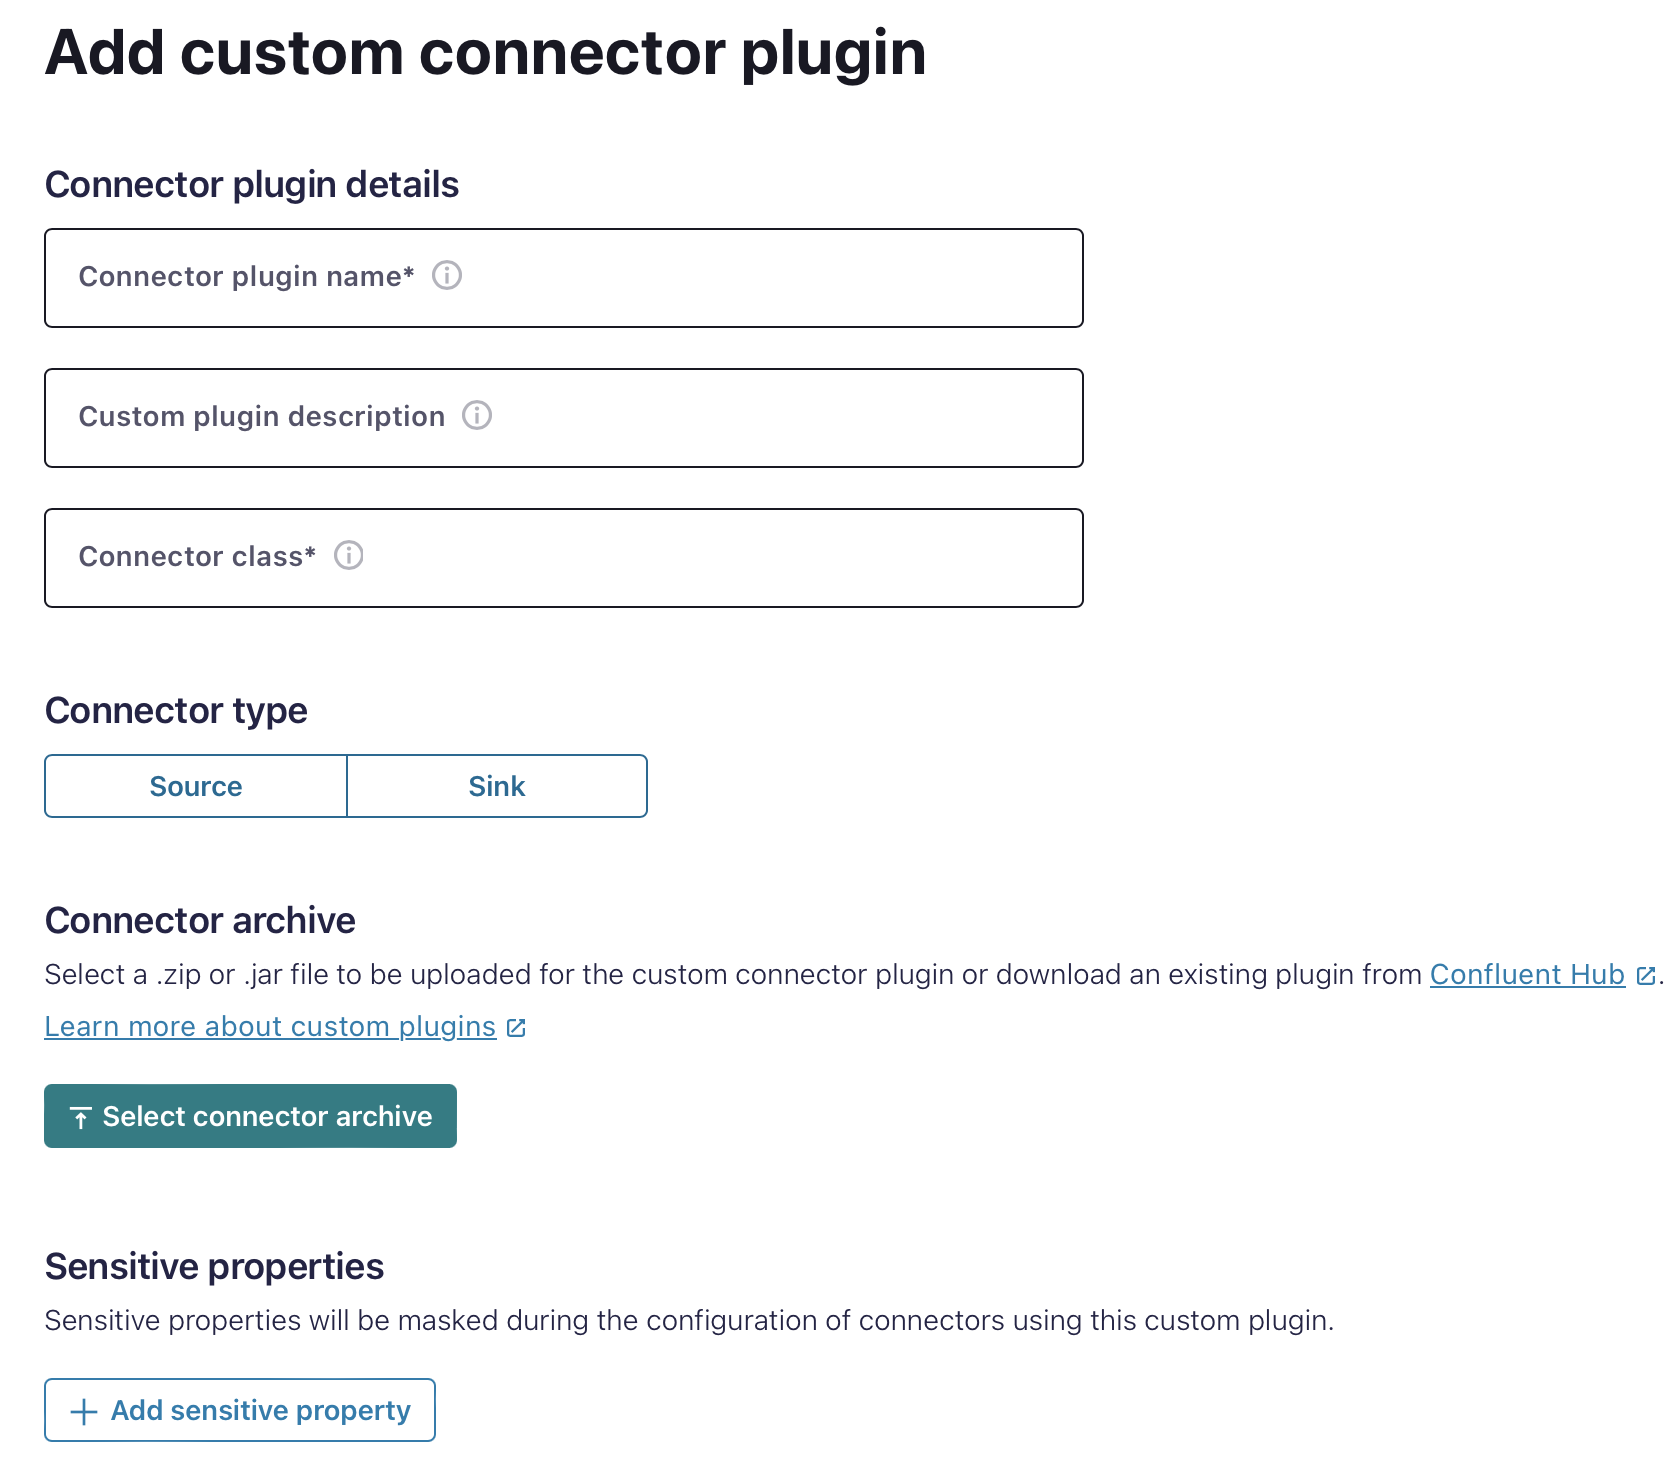
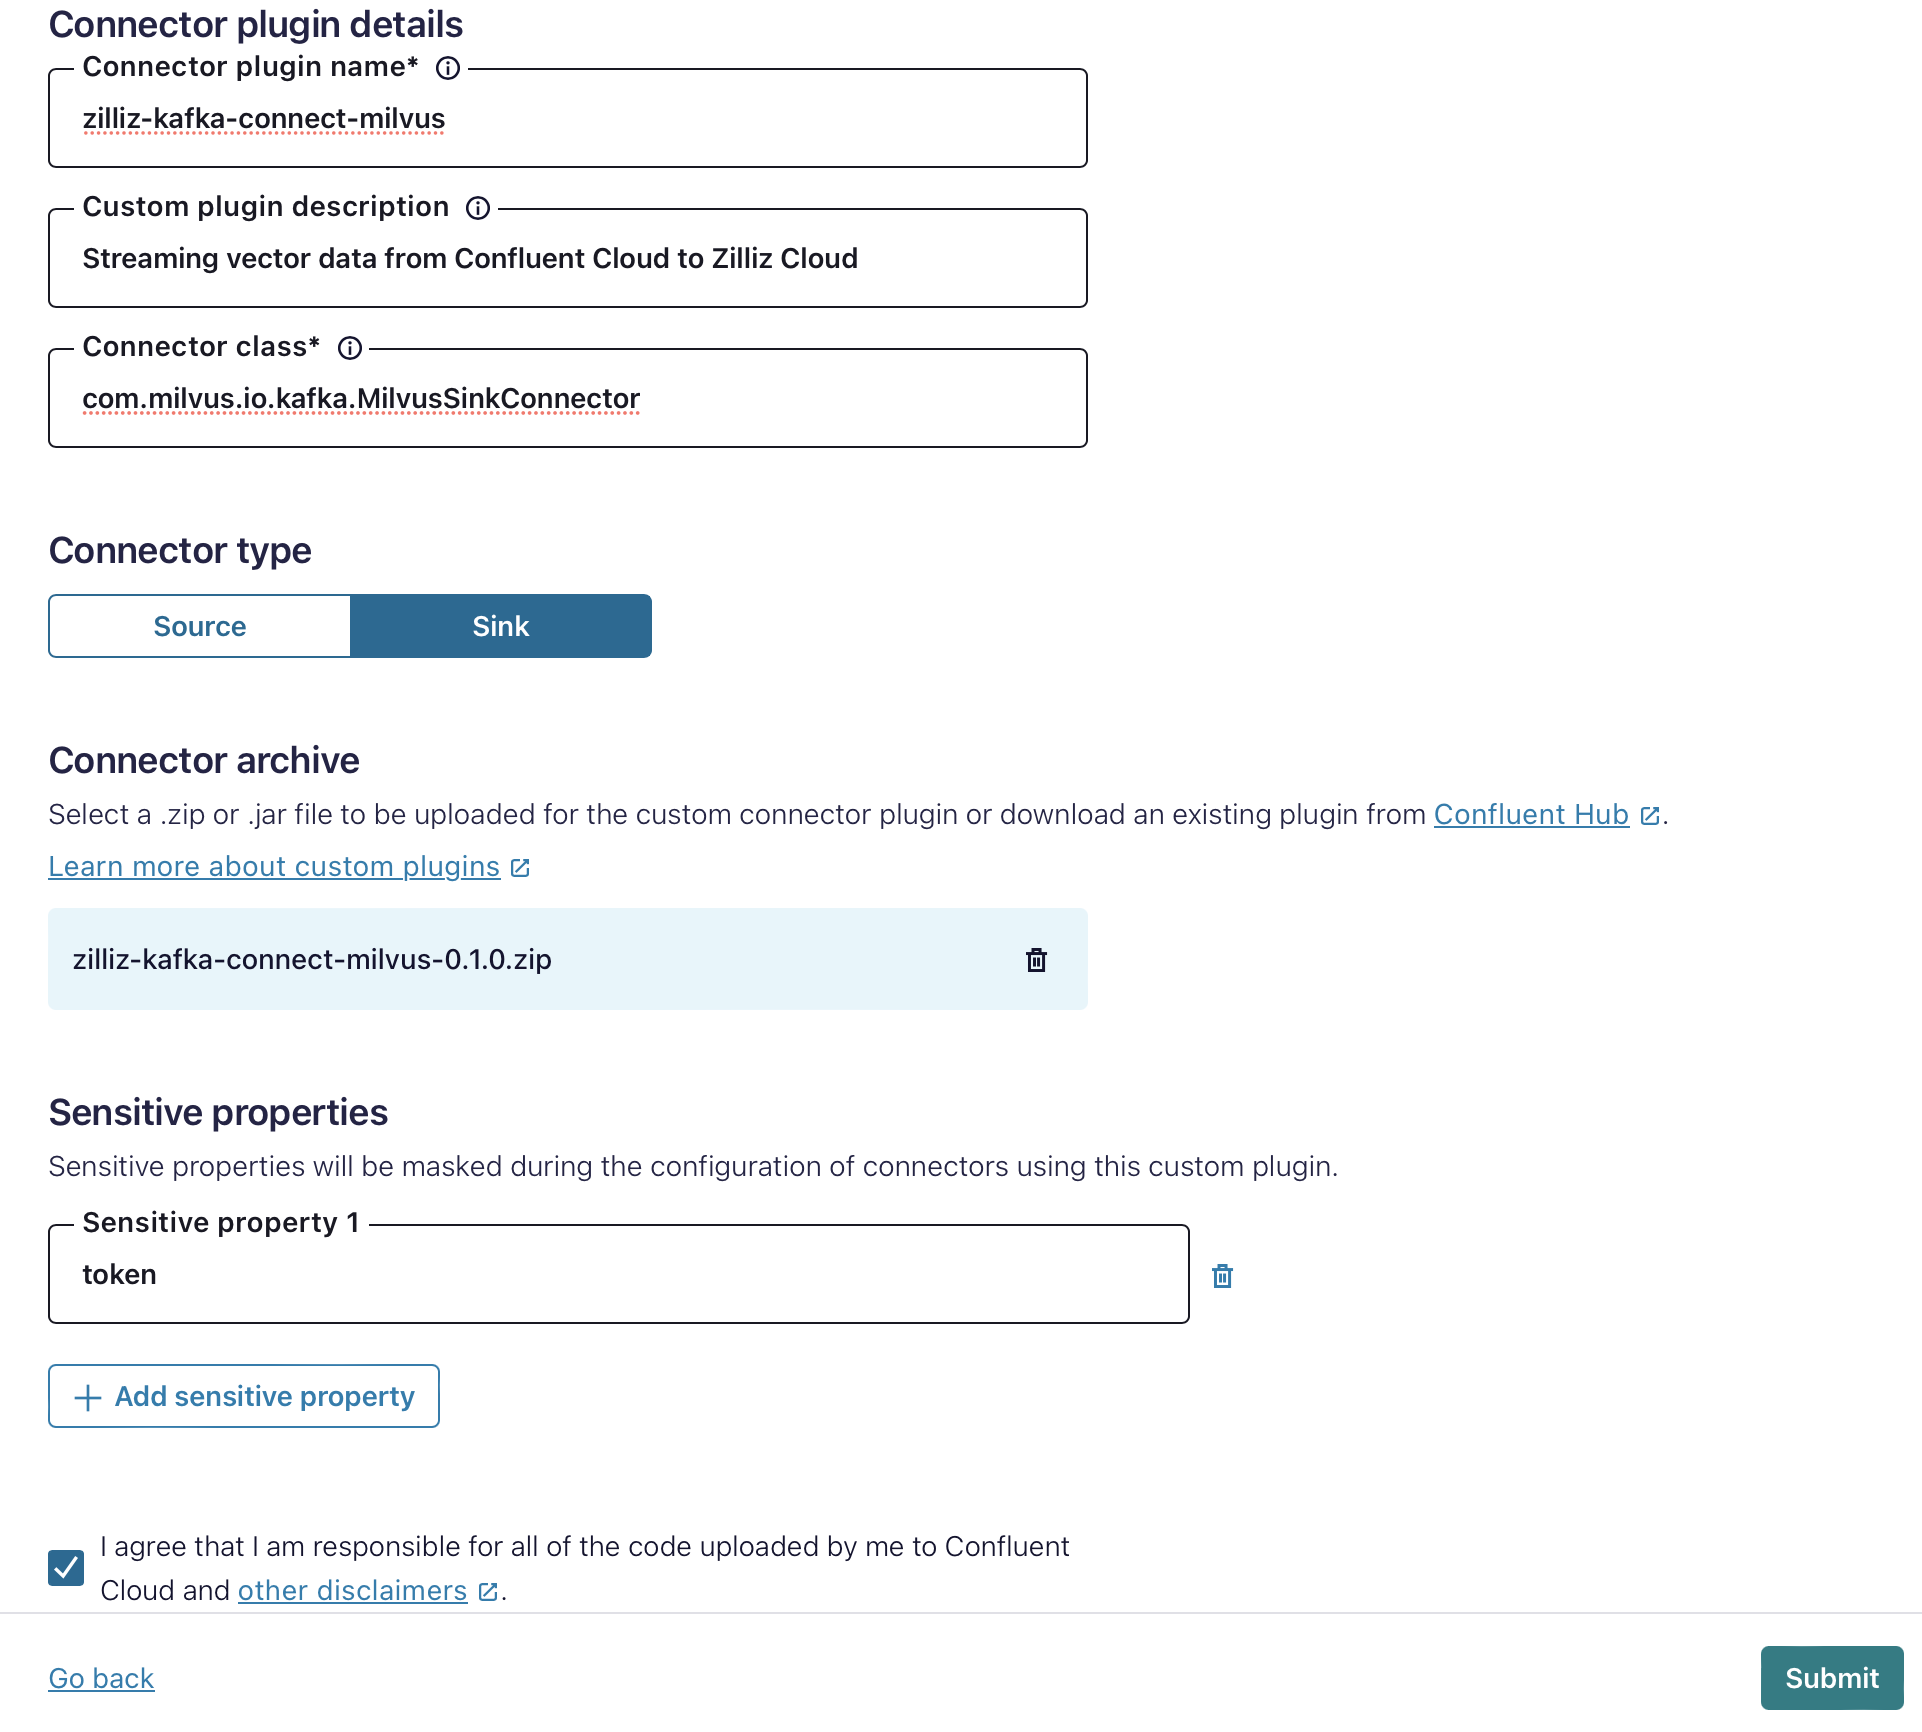
update ReadMe to add more detail

diff --git a/README.md b/README.md
@@ -18,7 +18,7 @@ Use this quick start to get up and running with the kafka-connect-milvus connect
 
 Complete the following steps to download the kafka-connect-milvus plugin.
 
-1. download the plugin zip file `zilliz-kafka-connect-milvus-v0.1.0-alpha.zip` from [here](https://github.com/zilliztech/kafka-connect-milvus/releases/tag/v0.1.0).
+1. download the latest plugin zip file `zilliz-kafka-connect-milvus-xxx.zip` from [here](https://github.com/zilliztech/kafka-connect-milvus/releases/tag/v0.1.0).
 
 ## Step 2: Configure Confluent Cloud and Zilliz Cloud
 
@@ -35,31 +35,58 @@ Note: Make sure they have the same number of fields, where one and only one is a
 2. Click on `Add Plugin`.
 3. Upload the `zilliz-kafka-connect-milvus-xxx.zip` file you downloaded in Step 1.
 
-<img src="src/main/resources/images/add_plugin.png" width="50%" />
+<img src="src/main/resources/images/add_plugin.png" width="80%" />
 
-4. put `com.milvus.io.kafka.MilvusSinkConnector` into Connector class.
+- Put Connector plugin details
+- Put `com.milvus.io.kafka.MilvusSinkConnector` into Connector class.
+- For Sensitive properties, fill in the config field you want to be hidden, like `token`, check [custom-connector](https://docs.confluent.io/cloud/current/connectors/bring-your-connector/custom-connector-qs.html) for more details.
+
 
 ## Step 4: Configure the kafka-connect-milvus Connector
 
 1. Go to the Connectors section in your Confluent Cloud cluster.
 2. Click on `Get Started`.
+3. Enter Confluent Cloud API Key and Secret
+4. Add Configuration for the connector
 
-Provide the following credentials by `Add Sensitive Property`:
+    Provide the milvus connector config as follows:
 
-```json
-  "public.endpoint": "https://<public.endpoint>:port",
-  "token": "*****************************************",
-  "collection.name": "topic_0",
-  "topics": "topic_0"
-```
+    ```json
+   {
+      "public.endpoint": "https://<public.endpoint>:port",
+      "token": "*****************************************",
+      "collection.name": "topic_0",
+      "topics": "topic_0"
+   }
+    ```
 
-Note: the token field is either the API token or `<username>:<password>`, depending on the instance type of your collection in Milvus or Zilliz Cloud.
+   - The token field is either the API token or `<username>:<password>`, depending on the instance type of your collection in Milvus or Zilliz Cloud.
+5. Enter Connection endpoints, which is the public endpoint of your Milvus or Zilliz Cloud instance. Like: `in01-034b8444ab99cab.aws-us-west-2.vectordb.zillizcloud.com`
+6. Choose sizing, the number of tasks to be run
+7. Review and launch
+
+#### Sample Config
+
+<img src="src/main/resources/images/add_config.png" width="90%" />
+
+
+
+#### Kafka Topic Converter
+We support Json, JsonSchema, Avro, ProtoBuf format for Kafka topic,
+if your topic has an output format other than plain json, you need to choose the converter type in `Auto Configure Schema Registry`.
+
+<img src="src/main/resources/images/scheme_registry.png" width="50%" />
+
+
+- Sample Config for kafka topic with schema, check [here](https://docs.confluent.io/platform/current/schema-registry/connect.html) for more details
+
+    <img src="src/main/resources/images/with_schema.png" width="80%" />
   
 ## Step 5: Launch the connector
 
 Start the connector to begin streaming data from Kafka to Milvus.
 
-* First, produce a message to the Kafka topic you just created in Confluent Cloud
+1. Try produce a message to the Kafka topic you just created in Confluent Cloud
 ```json
 {
   "id": 0,
@@ -68,11 +95,14 @@ Start the connector to begin streaming data from Kafka to Milvus.
   "link": "https://medium.com/swlh/the-reported-mortality-rate-of-coronavirus-is-not-important-369989c8d912"
 }
 ```
+- Topic Page on Confluent Cloud
 
-* Then check if the data record has been  inserted into the collection in Zilliz Cloud. Here is what it looks like on Zilliz Cloud if the insertion was successful:
+    <img src="src/main/resources/images/produce_message.png" width="80%" />
+
+2. Check if the data record has been  inserted into the collection in Zilliz Cloud. Here is what it looks like on Zilliz Cloud if the insertion was successful:
 
 <img src="src/main/resources/images/insearted_entities.png" width="80%" />
- 
+
 
 ### Support
 
